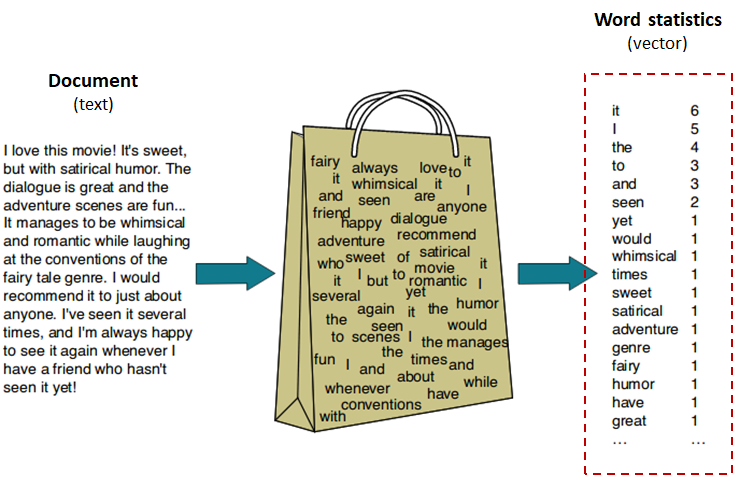
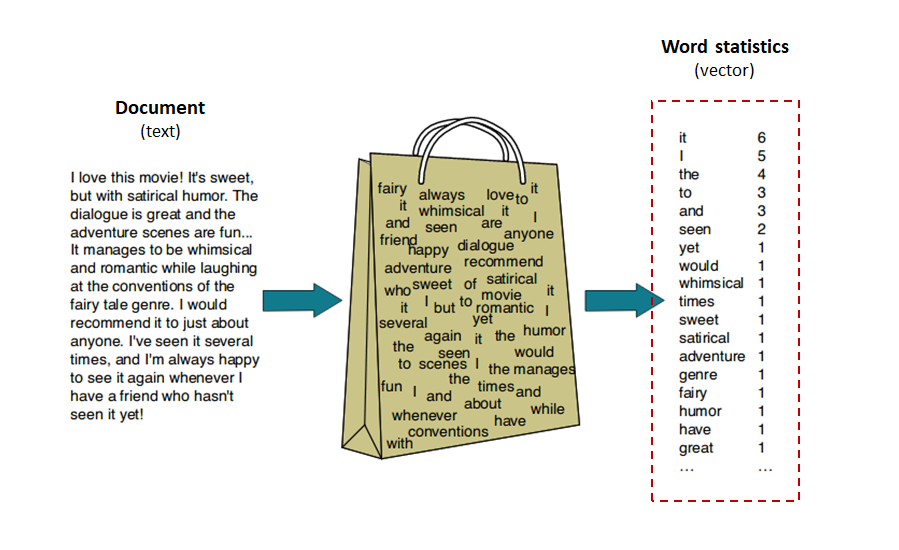
update

diff --git a/page-docval.html b/page-docval.html
@@ -26,68 +26,59 @@
 						<div class="col-12">
 							<header>
 								<h1><strong>Automated document validation</strong></h1>
-								<h2>with both Computer Vision and NLP approaches</h2>
+								<h2>with both <b>visual</b> and <b>textual</b> approaches</h2>
 							</header>
 						</div>
 					</div>
 				</div>
 			</article>
 
-		<!-- Overall-Architecture -->
-			<article id="overall-architecture" class="wrapper style2">
+		<!-- Overall-Dataflow -->
+			<article id="overall-dataflow" class="wrapper style2">
 				<div class="container">
 					<header>
 						<h2>
-							<b>Overall architecture</b>
+							<b>Overall dataflow</b>
 						</h2>
 					</header>
-					<div class="row">
+					<div class="row aln-center">
 						<div class="col-12">
-							<img class="image featured" src="images/combined_approaches.png"/>
+							<img class="image featured" src="images/combined_approaches-small.png"/>
 						</div>
 					</div>
 				</div>
 			</article>
 			
-		<!-- Tutorial -->
+		<!-- Bag-of-Words -->
 			<article id="tutorial" class="wrapper style3">
 				<div class="container">
 					<header>
 						<h2>
-							<b>Colab project</b>
-							<svg width="24" height="24" viewBox="0 0 1000 1000" xmlns="http://www.w3.org/2000/svg"><path d="M 100 0C 45 0 0 45 0 100C 0 100 0 900 0 900C 0 955 45 1000 100 1000C 100 1000 900 1000 900 1000C 955 1000 1000 955 1000 900C 1000 900 1000 100 1000 100C 1000 45 955 0 900 0C 900 0 100 0 100 0C 100 0 100 0 100 0M 100 75C 100 75 900 75 900 75C 914 75 925 86 925 100C 925 100 925 900 925 900C 925 914 914 925 900 925C 900 925 100 925 100 925C 86 925 75 914 75 900C 75 900 75 100 75 100C 75 86 86 75 100 75C 100 75 100 75 100 75 M 665 375C 633 375 602 388 579 411C 556 434 543 465 543 498C 543 530 556 561 579 584C 602 607 633 620 665 620C 698 620 729 607 752 584C 775 561 788 530 788 498C 788 430 733 375 665 375C 665 375 665 375 665 375M 338 261C 390 261 440 278 481 310C 481 310 424 411 424 411C 401 388 370 375 338 375C 305 375 274 388 251 411C 228 434 215 465 215 498C 215 530 228 561 251 584C 274 607 305 620 338 620C 369 620 399 608 422 587C 422 587 480 686 480 686C 439 717 389 734 338 734C 275 734 215 709 171 665C 126 620 101 560 101 498C 101 367 207 261 338 261C 338 261 338 261 338 261M 665 261C 796 261 902 367 902 498C 902 628 796 734 665 734C 603 734 543 709 498 665C 454 620 429 560 429 498C 429 367 535 261 665 261C 665 261 665 261 665 261"/></svg>
+							<b>Bag-of-Words (BoW) encoding</b>
 						</h2>
 					</header>
-					<div class="row">
+					<div class="row aln-center">
 						<div class="col-12">
-							<a href="https://colab.research.google.com/drive/1vPPfTQiXNpovDg5kvRaAWBmk3FnC20Ad?usp=sharing">
-								<b>(link to colab)</b>
-								<img class="image featured" src="images/colab.png"/>
-							</a>
+							<h3>Upon Optical Character Recognition (OCR), documents can be <b>encoded and classified</b> in BoW.</h3>
+							<img class="image featured" src="images/bow.png"/>
+							<p>(Source: https://koushik1102.medium.com/nlp-bag-of-words-and-tf-idf-explained-fd1f49dce7c4)</p>
 						</div>
 					</div>
 				</div>
 			</article>
 			
-		<!-- Results -->
+		<!-- Interpretation -->
 			<article id="Results" class="wrapper style2">
 				<div class="container">
 					<header>
-						<h2><b>Sample results</b></h2>
+						<h2><b>Highly Interpretabile Textual Models</b></h2>
 					</header>
 					<div class="row aln-center">
 						<div class="col-12">
 							<section class="box style1">
-								<h3>Given previous week to <b>predict the following day</b></h3>
-								<p><b>Using a simple encoder-decoder RNN architecture</b></p>
-								<img class="image featured" src="images/predict_one.png" alt="" />
-							</section>
-						</div>
-						<div class="col-12">
-							<section class="box style1">
-								<h3><b>Continous predictions</b></h3>
-								<p><b>Always using previous week to predict the 24 hours ahead</b></p>
-								<img class="image featured" src="images/predict_all.png" alt="" />
+								<h3><b>Word statistics</b></h3>
+								<p>For example, in validating "Credential" documents, <b>positive and negative indicating vocabulary</b> can easily be identified.</p>
+								<img class="image featured" src="images/class-vs-vocab.png" alt="" />
 							</section>
 						</div>
 					</div>

diff --git a/index.html b/index.html
@@ -46,6 +46,13 @@
 					<div class="row">
 						<div class="col-4 col-6-medium col-12-small">
 							<article class="box style2">
+								<h3><a href="page-docval.html">Automated document validation</a></h3>
+								<p>2023 @Vector Institute × <a href="https://www.ocas.ca/">OCAS</a></p>
+								<a href="page-docval.html" class="image featured"><img src="images/combined_approaches.png" alt="" /></a>
+							</article>
+						</div>
+						<div class="col-4 col-6-medium col-12-small">
+							<article class="box style2">
 								<h3><a href="page-obj-detect.html">Object detection from 3D point clouds</a></h3>
 								<p>2022</p>
 								<a href="page-obj-detect.html" class="image featured"><img src="images/lidar2.png" alt="" /></a>
